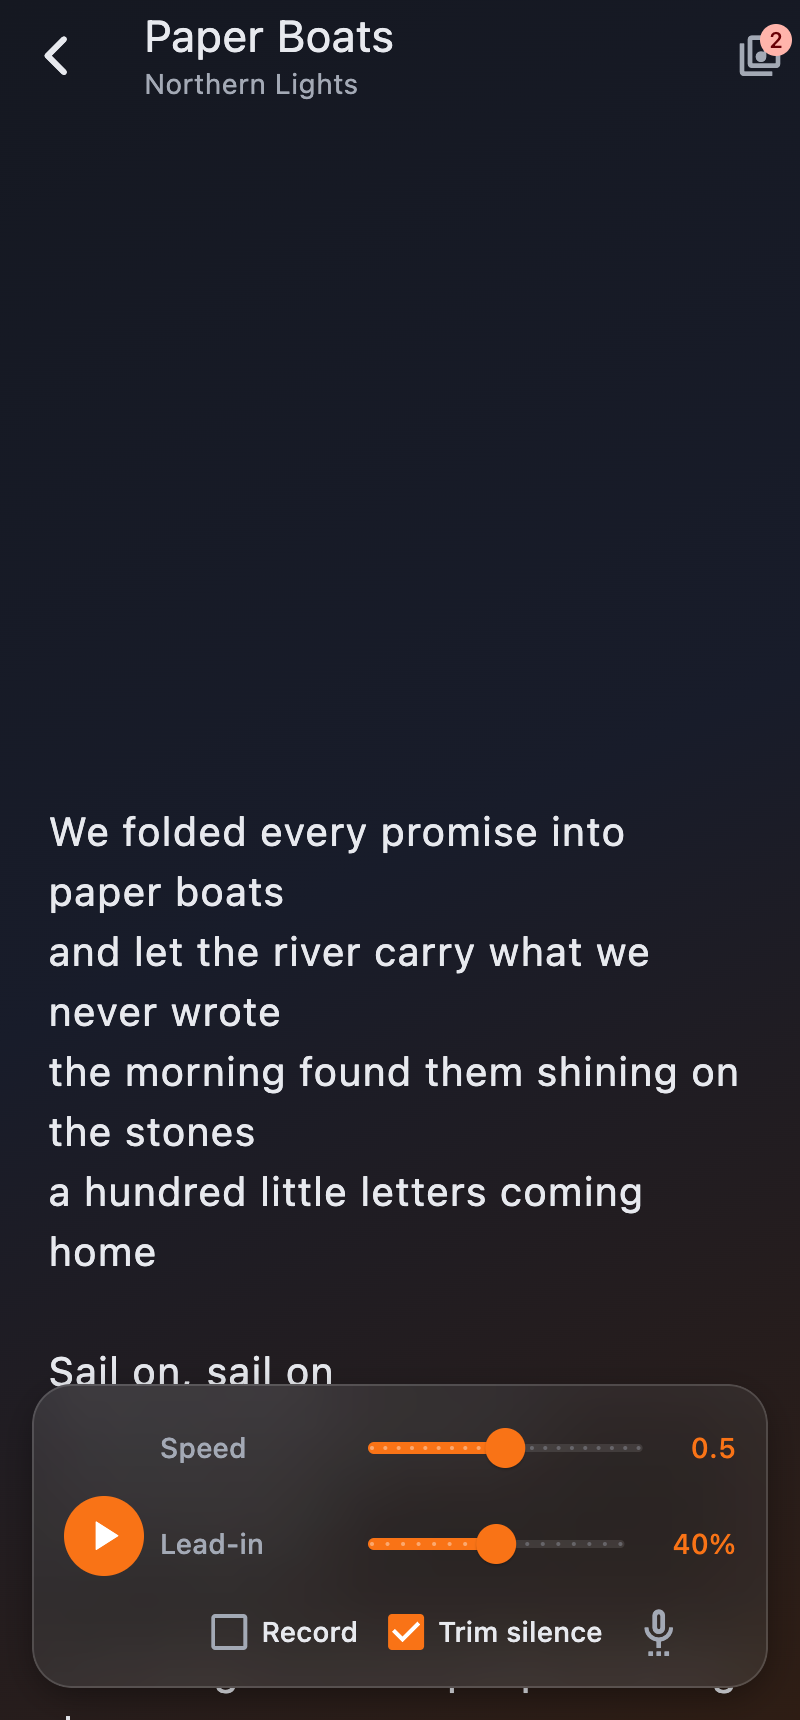
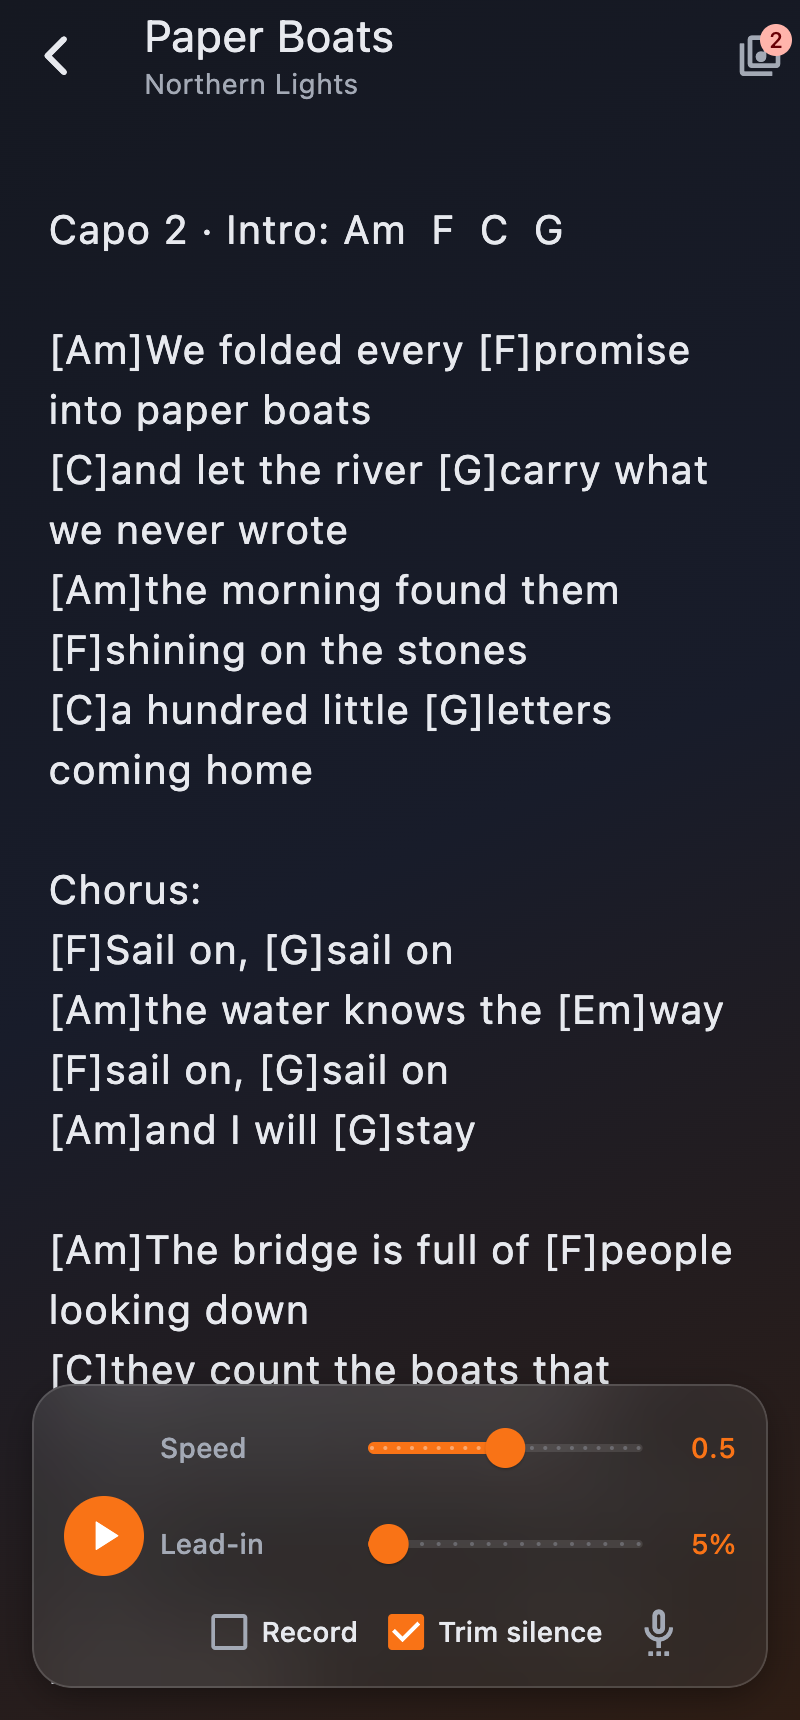
[DOCS-049] README: lyrics with chords, a Themes section with the settings and the four styles in other accents

diff --git a/integration_test/readme_screenshots_test.dart b/integration_test/readme_screenshots_test.dart
@@ -17,8 +17,11 @@ import 'package:hitwave.cover/features/practice/data/models/practice_session_mod
 import 'package:hitwave.cover/features/recordings/data/models/recording_model.dart';
 import 'package:hitwave.cover/features/recordings/domain/entities/recording_status.dart';
 import 'package:hitwave.cover/features/settings/data/models/app_settings_model.dart';
+import 'package:hitwave.cover/features/settings/domain/entities/accent_color.dart';
 import 'package:hitwave.cover/features/settings/domain/entities/app_settings.dart';
 import 'package:hitwave.cover/features/settings/domain/entities/app_theme_style.dart';
+import 'package:hitwave.cover/features/settings/presentation/di/settings_getters.dart';
+import 'package:hitwave.cover/features/song/domain/entities/lyrics_layout.dart';
 import 'package:hitwave.cover/features/song/domain/entities/song.dart';
 import 'package:hitwave.cover/features/song/presentation/di/song_getters.dart';
 import 'package:hitwave.cover/main.dart' as app;
@@ -34,18 +37,20 @@ const List<({String author, String name, String album, String lyrics})> _demoSon
         name: 'Paper Boats',
         album: 'Harbour',
         lyrics:
-            'We folded every promise into paper boats\n'
-            'and let the river carry what we never wrote\n'
-            'the morning found them shining on the stones\n'
-            'a hundred little letters coming home\n\n'
-            'Sail on, sail on\n'
-            'the water knows the way\n'
-            'sail on, sail on\n'
-            'and I will stay\n\n'
-            'The bridge is full of people looking down\n'
-            'they count the boats that never touch the ground\n'
-            'and every one is carrying a name\n'
-            'and none of them will ever be the same',
+            'Capo 2 · Intro: Am  F  C  G\n\n'
+            '[Am]We folded every [F]promise into paper boats\n'
+            '[C]and let the river [G]carry what we never wrote\n'
+            '[Am]the morning found them [F]shining on the stones\n'
+            '[C]a hundred little [G]letters coming home\n\n'
+            'Chorus:\n'
+            '[F]Sail on, [G]sail on\n'
+            '[Am]the water knows the [Em]way\n'
+            '[F]sail on, [G]sail on\n'
+            '[Am]and I will [G]stay\n\n'
+            '[Am]The bridge is full of [F]people looking down\n'
+            '[C]they count the boats that [G]never touch the ground\n'
+            '[Am]and every one is [F]carrying a name\n'
+            '[C]and none of them will [G]ever be the same',
       ),
       (
         author: 'Northern Lights',
@@ -207,6 +212,10 @@ void main() {
     for (int i = 2; i >= 0; i--) {
       await markCoverPlayedUseCase('demo-take-$i');
     }
+    final String paperBoats = songs.firstWhere((Song song) => song.name == 'Paper Boats').id;
+    for (final LyricsLayout layout in LyricsLayout.values) {
+      await updateSongLeadInUseCase(songId: paperBoats, layout: layout, leadIn: 0.05);
+    }
 
     // 2. Phone screens.
     tester.view.devicePixelRatio = 2;
@@ -241,6 +250,24 @@ void main() {
     await settle();
     await tester.tap(find.text('Paper Boats').first);
     await shot('wide_lyrics');
+    await tester.pageBack();
+    await settle();
+
+    // 4. The looks: every theme style with another accent, on the home tab of a phone.
+    tester.view.devicePixelRatio = 2;
+    tester.view.physicalSize = const Size(400 * 2, 860 * 2);
+    await tester.tap(tab(Icons.home_outlined));
+    const List<(AppThemeStyle, AccentColor)> looks = <(AppThemeStyle, AccentColor)>[
+      (AppThemeStyle.glassLight, AccentColor.blue),
+      (AppThemeStyle.glassDark, AccentColor.orange),
+      (AppThemeStyle.neumorphicLight, AccentColor.violet),
+      (AppThemeStyle.neumorphicDark, AccentColor.teal),
+    ];
+    for (final (AppThemeStyle style, AccentColor accent) in looks) {
+      await setThemeStyleUseCase(style);
+      await setAccentColorUseCase(accent);
+      await shot('look_${style.name}');
+    }
 
     storage.deleteSync(recursive: true);
     // ignore: avoid_print

diff --git a/README.md b/README.md
@@ -18,6 +18,12 @@ Built with Flutter for Android, iOS, macOS, Windows, Linux and the web.
 
 ![Lyrics on a wide screen](docs/screenshots/wide_lyrics.png)
 
+### Themes
+
+Four styles — light and dark glass, light and dark neumorphism — and eight accent colors, chosen in Settings:
+
+![Settings and the four theme styles](docs/screenshots/themes.png)
+
 The screenshots are made from demo songs by `integration_test/readme_screenshots_test.dart` (see Development).
 
 ## Features
@@ -95,7 +101,8 @@ flutter test --concurrency=1
 Android APK and the web app and attaches them to the GitHub release of that tag.
 
 **Screenshots**: run on macOS (the demo data lives in its own storage folder and is deleted afterwards),
-then copy the PNGs from the printed folder to `docs/screenshots/`:
+then copy the PNGs from the printed folder to `docs/screenshots/` (`themes.png` is `phone_settings` and the four
+`look_*` shots side by side, at half size):
 
 ```bash
 flutter test integration_test/readme_screenshots_test.dart -d macos \

diff --git a/README.isv.md b/README.isv.md
@@ -16,6 +16,12 @@ Hitwave Cover држи тексты ваших пєснеј и ваше каве
 
 ![Текст на ширшем екранє](docs/screenshots/wide_lyrics.png)
 
+### Темы
+
+Четыри стиља — свєтло и тємно стекло, свєтли и тємни неуморфизм — и осем акцентних барв; избирајут се в Наставјењах:
+
+![Наставјења и четыри стиља темы](docs/screenshots/themes.png)
+
 ## Можности
 
 ### Пєсни и тексты
